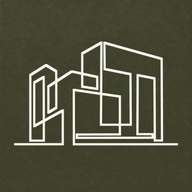
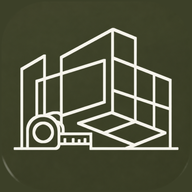
換上新的 App 圖示（建築線稿＋捲尺）
Claude-Session: https://claude.ai/code/session_01FPk4qynzsPEWYmbJ3tVhs6

Changed region(s): [[0.0625, 0.125, 0.9375, 0.7812], [0.0, 0.8125, 0.0625, 0.9062]]

diff --git a/index.html b/index.html
@@ -2942,7 +2942,7 @@ const THEMES = [
   ["blue",   "藍",   "#263457", "#3d5fd9", "#e8edfc", "#eef1f6", "#e3e8f0"],
   ["teal",   "湖水", "#1f4650", "#16808f", "#dff2f4", "#edf4f5", "#dfeaec"],
   ["green",  "墨綠", "#24463a", "#2b8058", "#e2f2e9", "#eef3f0", "#e1eae4"],
-  ["olive",  "橄欖", "#41432f", "#5f7a2a", "#eef2e1", "#f2f3ee", "#e6e8de"],   // 跟 App 圖示同色
+  ["olive",  "橄欖", "#3c4028", "#5f7a2a", "#eef2e1", "#f2f3ee", "#e6e8de"],   // 跟 App 圖示同色
   ["purple", "紫",   "#3a2d5c", "#6a4fd0", "#eeeafc", "#f1eff6", "#e6e2f0"],
   ["pink",   "櫻花", "#6b2f4a", "#c63f78", "#fbe8f0", "#f7f0f3", "#efe2e8"],
   ["brown",  "陶土", "#4a3226", "#a94f2a", "#fbebe3", "#f4f0ec", "#ebe4dd"],
